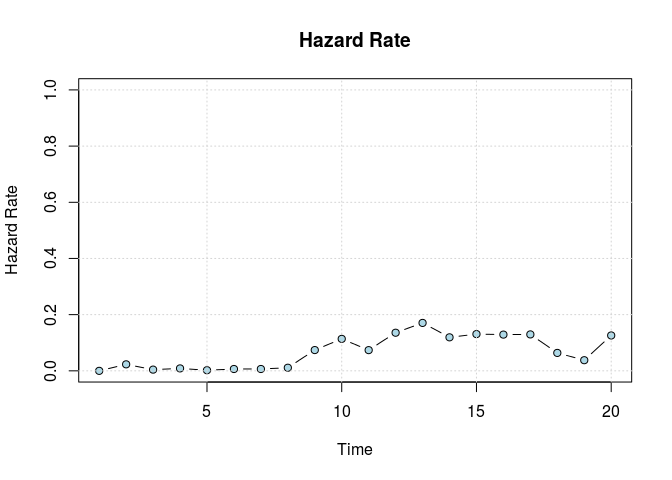
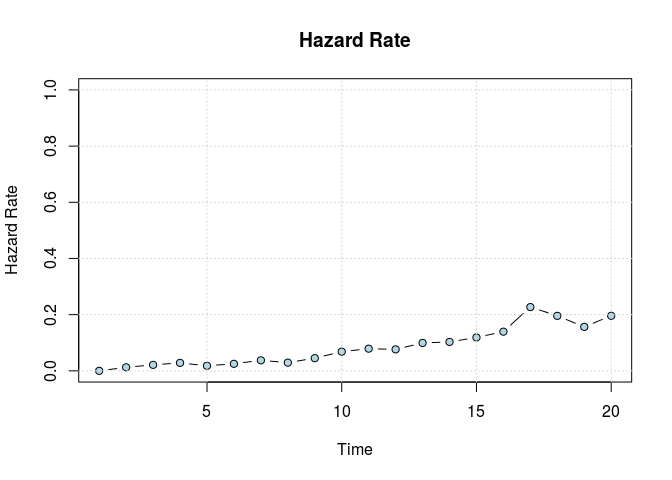
Fixing bug in rgraph_ba_cpp

diff --git a/src/rgraph_ba.cpp b/src/rgraph_ba.cpp
@@ -15,11 +15,12 @@ arma::sp_mat rgraph_ba_cpp(
   arma::sp_mat graph_new(n,n);
   graph_new.submat(0,0,m0-1, m0-1) = graph;
 
-  arma::colvec dgr_new(n, arma::fill::ones);
+  arma::colvec dgr_new(n, arma::fill::zeros);
   dgr_new.subvec(0, m0-1) = dgr;
 
   // Start the process, K is sum(dgr)
   int K = sum(dgr);
+  // std::cout << dgr ;
 
   GetRNGstate();
   for(int i=0;i<t;i++) {
@@ -34,6 +35,10 @@ arma::sp_mat rgraph_ba_cpp(
     if (m > m0) m1 = m0;
 
     for (int j=0;j<m1;j++) {
+      // Incrementing the degree of the first
+      dgr_new.at(m0) += 1.0;
+
+      // std::cout << j << " Iter, "<< m << " m\n";
       // Random selection
       double randdraw = unif_rand();
 

diff --git a/next_release.md b/next_release.md
@@ -1,0 +1,45 @@
+# Development road
+
+The following document details expectations for the comming versions. There is no guarantee on the implementation of any of the points here.
+
+# CRAN 1.16.4: Expected
+
+## Polishing
+
+- Review manuals: Description of arguments and name of the functions.
+- Aliases creation: `select_egoalter` `table_...`
+
+## Testing
+
+- `survey_to_diffnet`, `edgelist_to_adjmat`
+- `diffnet_as_igraph`, `igraph_as_diffnet`
+
+
+## Developing
+
+- `diffnet_to_networkDynamic`, `networkDynamic_to_diffnet`. Need to reach out the author of Carter Butts: Is there any way to access networkDynamic objects formal definition??
+
+- `rewire_dgr_preserve`: A brief comparison on igraph and netdiffuseR rewiring algorithms shows that igraph has no significan speed improvement in small-medium graphs. This may be due to having a similar rewiring algorithm. The dgr preserve should work in a similar fashion and should incorporate the call to `std::<vector>remove` method.
+
+- Raise the level of `ARMA_BIT_64INT`: Create a toy package in which, by simulations, we create big sparse matrices of class `dgCMatrix` do read/write operations both from R and from C++.
+
+- `read_ucinet` and rename `read_ucinet` to `read_dl`. And write versions of it. It will be useful to ask Steven B. if is there any way of using UCINET to analyze dynamic data.
+
+- `read_net` Talk with the developer to see is they have more information (aditional reference) on the data formatting for dynamic graphs and attributes. Recall UCINET's documents provided with spreadsheets pointing to data types and structure.
+
+## Improving
+
+-   `rdiffnet`:
+    Set initial adopters by providing a vector:
+    - logical
+    - integer (of length n)
+    - integer (of random length)
+    - character (ids, rownames)
+
+-   What happens in `survey_to_diffnet` when a data.frame is provided, but se set to fill data and the checking done over the dimmensions of the data?
+
+## Examples
+
+- Include the survival analysis example: Maybe use the recidivism data mixed with social data? Find a paper where someone does that
+- Include a probit/logit model
+- Write down an example with the function `select_egoalter` and rename it.

diff --git a/README.md b/README.md
@@ -54,12 +54,12 @@ before installing the package through `devtools`.
 
 ### Binary versions
 
-For the case of windows and mac users, they can find binary versions of the package [here](https://github.com/USCCANA/netdiffuseR/releases), [netdiffuseR\_1.16.3.29.zip](https://github.com/USCCANA/netdiffuseR/releases/download/v1.16.3.29/netdiffuseR_1.16.3.29.zip), and [netdiffuseR\_1.16.3.29.tgz](https://github.com/USCCANA/netdiffuseR/releases/download/v1.16.3.29/netdiffuseR_1.16.3.29.tgz) respectively. They can install this directly as follows:
+For the case of windows and mac users, they can find binary versions of the package [here](https://github.com/USCCANA/netdiffuseR/releases), netdiffuseR\_1...zip, and netdiffuseR\_1...tgz respectively. They can install this directly as follows (using the 1.16.3.29 version):
 
 1.  Install dependencies from CRAN
 
     ``` r
-    > install.packages(c("igraph", "Matrix", "SparseM" "RcppArmadillo", "sna"), dependencies=TRUE)
+    > install.packages(c("igraph", "Matrix", "SparseM", "RcppArmadillo", "sna"), dependencies=TRUE)
     ```
 
 2.  Download the binary version and install it as follows:
@@ -176,7 +176,7 @@ diffnet
     ##  # of nodes         : 500 (1, 2, 3, 4, 5, 6, 7, 8, ...)
     ##  # of time periods  : 20 (1 - 20)
     ##  Type               : directed
-    ##  Final prevalence   : 0.78
+    ##  Final prevalence   : 0.84
     ##  Static attributes  : real_threshold (1)
     ##  Dynamic attributes : -
 

diff --git a/NEWS.md b/NEWS.md
@@ -1,6 +1,6 @@
 # netdiffuseR 1.16.3.X (beta)
 
-* In `edgelist_to_adjmat` `use.incomplete` has been replaced by `keep.isolated`
+In `edgelist_to_adjmat` `use.incomplete` has been replaced by `keep.isolated`
   which makes more sense for naming. Incomplete cases on `times` or `weights` are
   still ignored (as these cannot be processed by the c++ 'engine'). (Reported by Tom)
   
@@ -101,6 +101,9 @@
   
 * New internal function `vertex_coords`: Creates polygons of any given number of
   sides considering aspec ratio of both x/y and device.
+  
+* Fixed bugs for `rgraph_ba_cpp`: Degree of new vertices was not changing apropiately.
+  This only was an issue when `m>1`.
 
 # netdiffuseR 1.16.2 (CRAN release)
 
